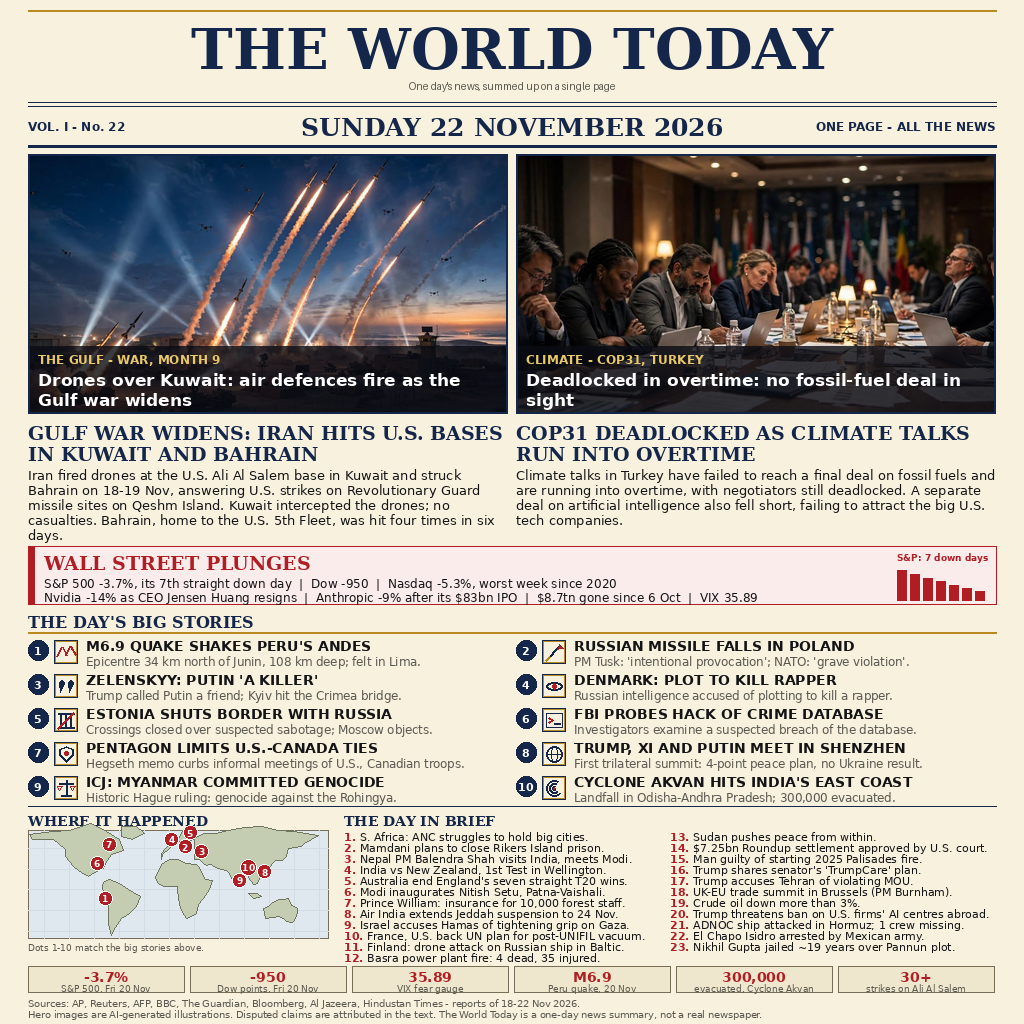
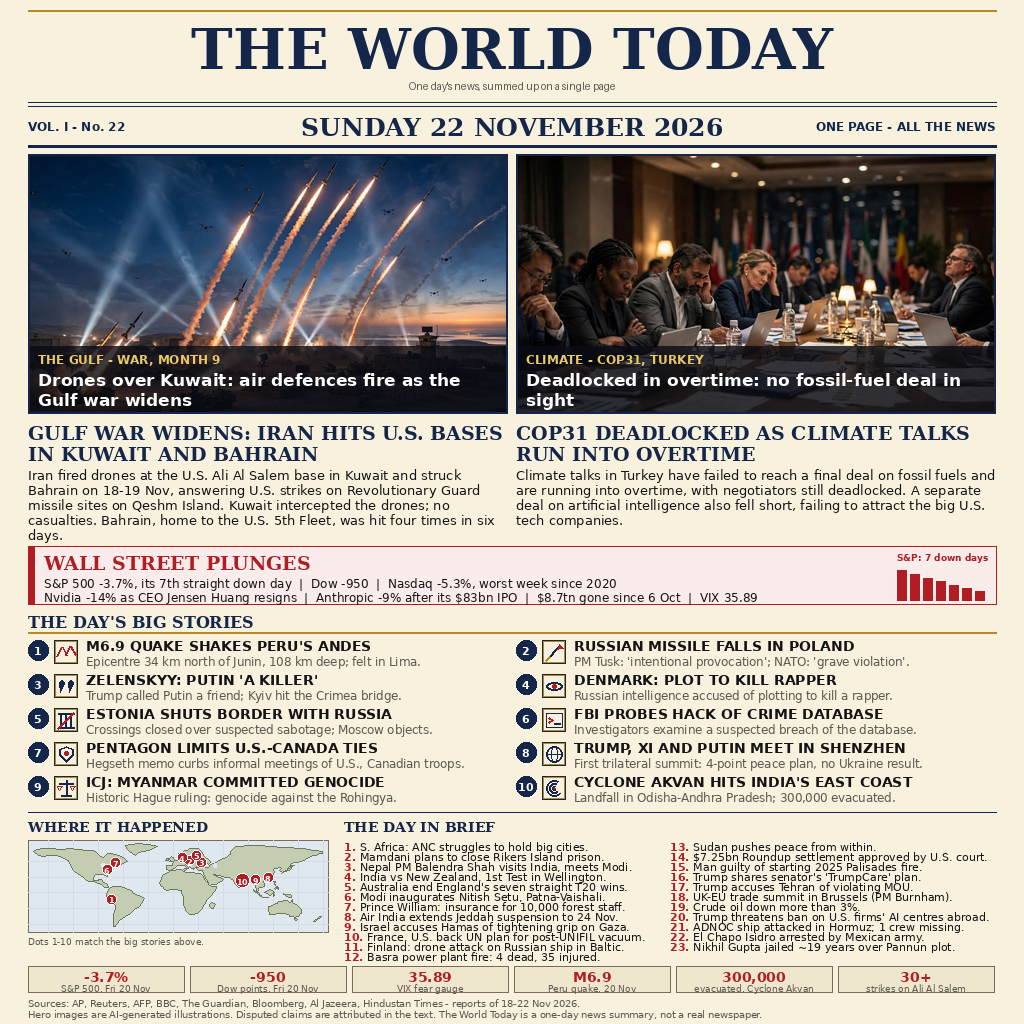
news-image-20261122: redraw the WHERE IT HAPPENED world map
Denser simplified coastlines (North/South America, Africa, Europe
with the Italian boot, Asia with Arabia/India/Malay peninsula,
Australia, UK, Japan, Indonesia) instead of blob continents; inland
seas (Baltic, Caspian, Great Lakes) cut back in. All ten dots now sit
on land with no nudges and none touches the frame; dots are smaller
so the tight European and Washington/Ottawa clusters stay legible.
Clear vertical space added between the featured stories and the map
heading, and between the heading and the map. Nothing else changed;
assets/prebuilt.png regenerated from the new render.

Changed region(s): [[0.0312, 0.7812, 0.625, 0.9375], [0.6562, 0.8125, 0.9688, 0.9375]]

diff --git a/composer.py b/composer.py
@@ -193,62 +193,184 @@ ICONS = [icon_quake, icon_missile, icon_quote, icon_eye, icon_border,
 # Simplified continent outlines as (lon, lat) points, equirectangular.
 
 CONTINENTS = [
-    # North America
-    [(-168, 66), (-140, 70), (-120, 72), (-95, 80), (-80, 73), (-60, 60),
-     (-55, 47), (-70, 42), (-75, 35), (-80, 26), (-90, 21), (-97, 16),
-     (-105, 20), (-115, 28), (-125, 40), (-125, 49), (-140, 60),
-     (-165, 60)],
+    # North America: Alaska, Arctic coast with a Hudson Bay dent,
+    # Labrador, Florida, Gulf coast, Mexico, Central America.
+    [(-168, 66), (-163, 60), (-156, 58), (-149, 60), (-142, 60),
+     (-136, 58), (-131, 55), (-127, 51), (-124, 44), (-121, 36),
+     (-116, 31), (-112, 28), (-109, 24), (-106, 21), (-101, 18),
+     (-95, 18), (-91, 15), (-87, 13), (-83, 9), (-79, 9), (-80, 13),
+     (-84, 16), (-87, 21), (-90, 21), (-91, 19), (-96, 19), (-97, 24),
+     (-94, 29), (-90, 30), (-85, 30), (-82, 28), (-80, 26), (-80, 31),
+     (-76, 35), (-75, 38), (-73, 41), (-70, 42), (-68, 44), (-65, 44),
+     (-60, 46), (-56, 50), (-59, 54), (-62, 57), (-66, 59), (-70, 61),
+     (-76, 62), (-80, 63), (-83, 58), (-85, 56), (-88, 58), (-91, 61),
+     (-94, 65), (-98, 67), (-105, 68), (-115, 69), (-125, 70),
+     (-135, 69), (-148, 70), (-158, 71), (-165, 69)],
     # Greenland
-    [(-58, 64), (-45, 60), (-30, 68), (-40, 76), (-58, 76)],
-    # South America
-    [(-80, 9), (-72, 12), (-60, 8), (-50, 0), (-35, -8), (-40, -20),
-     (-48, -28), (-58, -35), (-65, -45), (-70, -55), (-73, -40),
-     (-73, -20), (-80, -5), (-81, 5)],
-    # Africa
-    [(-17, 15), (-10, 30), (0, 36), (10, 37), (20, 32), (32, 31),
-     (35, 28), (43, 12), (51, 11), (48, 0), (40, -10), (35, -18),
-     (32, -28), (20, -35), (15, -27), (12, -18), (9, -1), (9, 4),
-     (-8, 4), (-13, 8)],
-    # Europe
-    [(-10, 36), (-9, 43), (-2, 48), (0, 50), (5, 53), (8, 57), (10, 59),
-     (18, 56), (21, 55), (24, 58), (28, 60), (30, 62), (25, 65),
-     (20, 70), (15, 70), (10, 62), (5, 60), (5, 58), (-5, 50), (-10, 44)],
-    # Asia
-    [(30, 62), (40, 68), (55, 68), (70, 72), (90, 75), (110, 76),
-     (130, 72), (150, 70), (170, 66), (178, 65), (170, 60), (162, 56),
-     (158, 52), (142, 50), (140, 40), (135, 35), (127, 35), (122, 30),
-     (120, 22), (110, 20), (108, 12), (105, 8), (100, 6), (98, 10),
-     (95, 15), (92, 21), (88, 22), (85, 19), (80, 13), (77, 8),
-     (75, 12), (72, 20), (68, 23), (62, 25), (57, 26), (52, 28),
-     (50, 30), (48, 30), (44, 29), (40, 32), (36, 36), (33, 36), (30, 36)],
-    # Australia
-    [(113, -22), (114, -30), (115, -35), (124, -33), (130, -32),
-     (137, -35), (140, -38), (147, -39), (150, -37), (153, -27),
-     (153, -22), (146, -19), (142, -11), (137, -12), (132, -12),
-     (126, -14), (122, -17), (118, -20)],
-    # South-East Asian islands
-    [(95, -5), (105, -5), (110, -8), (100, -10)],
+    [(-46, 60), (-42, 64), (-36, 66), (-30, 68), (-24, 70), (-20, 73),
+     (-25, 76), (-32, 77), (-42, 78), (-52, 77), (-58, 75), (-57, 71),
+     (-54, 67), (-50, 63)],
+    # South America: Caribbean coast, Brazilian bulge, taper to the south.
+    [(-77, 7), (-74, 10), (-70, 11), (-64, 10), (-59, 8), (-54, 6),
+     (-51, 4), (-50, 0), (-46, -2), (-41, -4), (-36, -7), (-35, -9),
+     (-37, -12), (-39, -16), (-40, -20), (-42, -23), (-46, -25),
+     (-49, -28), (-52, -32), (-55, -35), (-58, -38), (-62, -40),
+     (-65, -43), (-67, -47), (-69, -50), (-70, -53), (-72, -54),
+     (-73, -50), (-73, -45), (-73, -40), (-72, -35), (-71, -30),
+     (-70, -25), (-70, -20), (-73, -16), (-76, -13), (-79, -8),
+     (-81, -5), (-81, -1), (-80, 2), (-78, 5)],
+    # Africa: west bulge, Mediterranean coast, Horn, southern taper.
+    [(-17, 15), (-16, 19), (-15, 23), (-14, 27), (-11, 30), (-7, 33),
+     (-4, 35), (0, 36), (5, 37), (9, 37), (11, 34), (15, 32), (19, 32),
+     (23, 32), (27, 31), (30, 31), (32, 31), (34, 28), (36, 25),
+     (37, 22), (38, 19), (40, 16), (41, 13), (43, 12), (46, 11),
+     (48, 11), (51, 11), (51, 8), (50, 4), (48, 0), (46, -3), (43, -7),
+     (40, -10), (39, -14), (37, -18), (35, -21), (34, -25), (32, -28),
+     (30, -31), (27, -33), (23, -34), (19, -35), (17, -33), (15, -30),
+     (14, -26), (13, -22), (12, -18), (12, -14), (12, -10), (12, -6),
+     (10, -2), (9, 1), (9, 4), (6, 4), (3, 6), (-1, 5), (-5, 5),
+     (-8, 4), (-11, 6), (-13, 8), (-15, 11)],
+    # Madagascar
+    [(44, -16), (46, -15), (49, -16), (50, -18), (49, -21), (47, -24),
+     (45, -25), (43, -22), (43, -19)],
+    # Europe: Iberia, Brittany, Low Countries, Jutland, Norway, North
+    # Cape, down the Russian west to the Caucasus, Black Sea north
+    # coast, Greece, Adriatic, the Italian boot, back along the Med.
+    [(-9, 37), (-9, 41), (-9, 43), (-5, 44), (-2, 44), (-2, 47),
+     (-1, 49), (0, 50), (2, 51), (4, 52), (6, 54), (8, 55), (8, 57),
+     (10, 58), (8, 59), (6, 60), (5, 61), (6, 62), (8, 63), (11, 65),
+     (13, 67), (16, 68), (19, 70), (23, 71), (27, 71), (30, 70),
+     (31, 69), (32, 67), (33, 65), (34, 63), (35, 61), (36, 59),
+     (38, 57), (40, 55), (42, 53), (43, 51), (44, 49), (43, 47),
+     (41, 45), (39, 47), (36, 46), (33, 46), (30, 46), (28, 44),
+     (27, 42), (26, 40), (24, 39), (23, 37), (22, 38), (21, 39),
+     (20, 41), (19, 42), (18, 44), (16, 44), (14, 45), (15, 43),
+     (16, 42), (17, 41), (18, 40), (17, 39), (16, 38), (15, 39),
+     (15, 41), (14, 42), (13, 44), (11, 44), (9, 44), (7, 44), (6, 43),
+     (4, 43), (3, 42), (2, 41), (0, 39), (-1, 38), (-3, 37), (-5, 36),
+     (-7, 36)],
+    # United Kingdom
+    [(-5, 50), (-4, 52), (-5, 54), (-4, 56), (-3, 58), (-1, 57),
+     (0, 54), (1, 52), (0, 50)],
+    # Ireland
+    [(-10, 52), (-9, 54), (-7, 55), (-6, 54), (-6, 52), (-8, 51)],
+    # Sicily
+    [(12, 37), (14, 38), (15, 37), (13, 36)],
+    # Asia: Turkey, Caucasus, Siberia, Chukotka, Pacific coast with
+    # Korea, south China coast, Vietnam, Malay peninsula spike,
+    # Myanmar, the Indian triangle, Arabia, Red Sea, Levant.
+    [(28, 41), (30, 41), (33, 42), (36, 42), (39, 41), (41, 41),
+     (43, 43), (45, 45), (47, 46), (49, 47), (51, 49), (54, 51),
+     (57, 53), (60, 55), (63, 57), (66, 59), (68, 61), (68, 65),
+     (69, 68), (71, 71), (74, 73), (78, 73), (82, 74), (87, 75),
+     (92, 75), (97, 76), (102, 76), (107, 75), (112, 74), (117, 73),
+     (122, 73), (127, 72), (132, 72), (137, 72), (142, 72), (147, 71),
+     (152, 70), (157, 70), (162, 69), (167, 68), (172, 67), (177, 66),
+     (178, 65), (178, 63), (175, 62), (170, 60), (166, 59), (162, 57),
+     (158, 53), (156, 52), (152, 50), (148, 49), (144, 48), (141, 46),
+     (140, 43), (138, 40), (136, 37), (134, 35), (132, 34), (130, 33),
+     (128, 34), (127, 36), (129, 38), (127, 40), (125, 40), (123, 39),
+     (121, 38), (120, 35), (121, 32), (120, 29), (119, 26), (117, 24),
+     (115, 23), (113, 22), (111, 21), (109, 20), (108, 18), (107, 16),
+     (109, 13), (109, 11), (107, 10), (105, 9), (104, 9), (103, 8),
+     (102, 6), (101, 4), (100, 2), (99, 4), (99, 7), (98, 10), (98, 12),
+     (97, 14), (96, 15), (95, 16), (94, 17), (93, 19), (92, 21),
+     (91, 22), (89, 22), (87, 21), (85, 19), (83, 17), (81, 15),
+     (80, 12), (80, 10), (78, 8), (77, 9), (76, 11), (74, 14), (73, 16),
+     (72, 19), (71, 20), (69, 22), (67, 24), (65, 25), (63, 25),
+     (61, 25), (59, 26), (57, 26), (55, 27), (53, 27), (51, 28),
+     (49, 29), (48, 30), (50, 28), (52, 26), (54, 25), (56, 24),
+     (58, 23), (59, 22), (58, 20), (56, 18), (54, 16), (52, 15),
+     (50, 14), (48, 14), (45, 13), (43, 12), (42, 14), (41, 16),
+     (40, 19), (39, 22), (38, 25), (37, 28), (36, 30), (35, 32),
+     (34, 34), (34, 36), (32, 36), (30, 36), (28, 37), (27, 39),
+     (27, 41)],
+    # Australia: west coast, Great Australian Bight, east coast, Cape York.
+    [(113, -22), (114, -28), (115, -32), (115, -35), (118, -35),
+     (121, -34), (124, -33), (127, -32), (129, -32), (132, -32),
+     (134, -33), (136, -35), (137, -35), (139, -37), (140, -38),
+     (144, -38), (146, -39), (148, -38), (150, -37), (151, -35),
+     (153, -32), (153, -29), (153, -26), (152, -24), (150, -22),
+     (148, -20), (146, -19), (144, -17), (142, -14), (142, -11),
+     (141, -13), (139, -15), (137, -13), (136, -12), (134, -12),
+     (132, -12), (130, -13), (128, -14), (126, -14), (124, -16),
+     (122, -17), (120, -19), (117, -20), (115, -21)],
+    # Tasmania
+    [(145, -41), (147, -41), (148, -42), (147, -43), (146, -43),
+     (145, -42)],
+    # New Zealand
+    [(167, -45), (169, -43), (171, -42), (173, -41), (174, -39),
+     (176, -38), (177, -38), (175, -40), (173, -41), (171, -43),
+     (169, -45), (167, -46)],
+    # Japan: Honshu
+    [(129, 31), (131, 33), (133, 34), (135, 34), (137, 35), (139, 35),
+     (140, 37), (141, 39), (141, 41), (140, 40), (138, 38), (136, 37),
+     (134, 35), (132, 34), (130, 32)],
+    # Japan: Hokkaido
+    [(140, 42), (142, 42), (144, 43), (145, 44), (143, 44), (141, 43)],
+    # Sumatra
+    [(95, 5), (97, 4), (99, 2), (101, 0), (103, -2), (105, -4),
+     (106, -6), (104, -5), (102, -3), (100, -1), (98, 1), (96, 4)],
+    # Borneo
+    [(109, 1), (111, 2), (113, 4), (116, 6), (118, 4), (119, 1),
+     (118, -1), (117, -3), (115, -4), (113, -3), (111, -1), (109, 0)],
+    # Java
+    [(105, -6), (107, -7), (109, -7), (111, -7), (113, -7), (114, -8),
+     (112, -8), (110, -8), (108, -7), (106, -7)],
+    # New Guinea
+    [(131, -1), (133, -2), (136, -2), (138, -3), (140, -3), (141, -4),
+     (141, -7), (139, -8), (137, -7), (135, -5), (133, -3), (131, -2)],
+    # Sulawesi
+    [(119, 0), (121, 1), (120, -1), (119, -3), (120, -5), (121, -3)],
+    # Philippines
+    [(120, 18), (122, 18), (122, 16), (121, 14), (122, 12), (123, 11),
+     (122, 9), (121, 7), (122, 6), (123, 8), (124, 10), (125, 9),
+     (126, 7), (125, 5)],
+]
+
+# Inland seas cut back into the land after the continents are drawn.
+INLAND_SEAS = [
+    # Baltic Sea
+    [(12, 55), (14, 57), (17, 59), (20, 61), (22, 63), (24, 65),
+     (23, 63), (21, 61), (19, 59), (16, 57), (13, 55)],
+    # Caspian Sea
+    [(47, 42), (49, 40), (51, 41), (52, 43), (51, 46), (49, 47),
+     (47, 45)],
+    # Great Lakes
+    [(-87, 42), (-85, 42), (-83, 43), (-81, 44), (-83, 46),
+     (-86, 46), (-88, 45)],
 ]
 
 # Story number -> (lon, lat, nudge_x, nudge_y) for the map dots.
+# No nudges. The true places cluster too tightly for legible numbered
+# dots at this size (Washington/Ottawa are 4 px apart, as are the four
+# European stories), so each dot sits at the nearest on-land point in
+# the same region that keeps every number readable: Poland central,
+# eastern Ukraine, Jutland, north-eastern Estonia, Virginia, the
+# Maine / Quebec border, eastern Myanmar, western Odisha.
 DOTS = [
-    (1, -77, -10, 0, 0),     # Peru
-    (2, 19, 52, 0, 0),       # Poland
-    (3, 30, 50, 7, 3),       # Kyiv
-    (4, 12, 55, -8, -5),     # Copenhagen
-    (5, 25, 59, 0, -8),      # Estonia
-    (6, -77, 39, -8, 6),     # Washington
-    (7, -75, 45, 2, -8),     # Ottawa
-    (8, 114, 22, 0, 0),      # Shenzhen
-    (9, 96, 21, -10, 8),     # Myanmar
-    (10, 85, 20, 8, -6),      # Odisha
+    (1, -75, -10, 0, 0),    # Peru, west coast of South America
+    (2, 19, 51, 0, 0),      # Poland
+    (3, 33, 49, 0, 0),      # Ukraine
+    (4, 10, 56, 0, 0),      # Denmark
+    (5, 27, 60, 0, 0),      # Estonia
+    (6, -80, 37, 0, 0),     # US east coast
+    (7, -70, 48, 0, 0),     # Canada / US border
+    (8, 113, 24, 0, 0),     # Shenzhen, China coast
+    (9, 98, 21, 0, 0),      # Myanmar
+    (10, 82, 19, 0, 0),     # Odisha, east coast of India
 ]
 
 
 def draw_map(draw, x0, y0, w, h):
-    """Rough world map with numbered dots 1-10 for the big stories."""
-    lon0, lon1 = -170.0, 190.0
-    lat0, lat1 = 72.0, -58.0
+    """World map with numbered dots 1-10 for the big stories.
+
+    Equirectangular, with a margin around the inhabited latitudes so
+    no dot touches the frame, and denser coastlines so each continent
+    reads at a glance. Inland seas are cut back in after the land.
+    """
+    lon0, lon1 = -175.0, 185.0
+    lat0, lat1 = 84.0, -62.0
     draw.rectangle([x0, y0, x0 + w, y0 + h], fill=(223, 232, 238),
                    outline=RULE, width=1)
     for lon in range(-150, 181, 30):
@@ -265,16 +387,22 @@ def draw_map(draw, x0, y0, w, h):
     for poly in CONTINENTS:
         pts = [px(lon, lat) for lon, lat in poly]
         draw.polygon(pts, fill=(196, 205, 178), outline=(110, 118, 96))
+    for sea in INLAND_SEAS:
+        pts = [px(lon, lat) for lon, lat in sea]
+        draw.polygon(pts, fill=(223, 232, 238))
     for num, lon, lat, nx, ny in DOTS:
         cx, cy = px(lon, lat)
         cx += nx
         cy += ny
-        r = 7 if num < 10 else 8
+        # Small dots: the European stories and Washington/Ottawa sit
+        # only ~8 px apart, so a radius of 5 (7 for two-digit 10) is
+        # what keeps every number readable without overlap.
+        r = 5 if num < 10 else 7
         draw.ellipse([cx - r, cy - r, cx + r, cy + r], fill=RED,
                      outline=(255, 255, 255), width=1)
         label = str(num)
-        tw = draw.textlength(label, font=font(SANS_BOLD, 9))
-        draw.text((cx - tw / 2, cy - 5), label, font=font(SANS_BOLD, 9),
+        tw = draw.textlength(label, font=font(SANS_BOLD, 8))
+        draw.text((cx - tw / 2, cy - 4), label, font=font(SANS_BOLD, 8),
                   fill=(255, 255, 255))
 
 
@@ -464,20 +592,20 @@ def build_page(base_dir):
                   font=font(SANS, 11.5), fill=GREY)
 
     # --- map + briefs -------------------------------------------------------
-    hrule(draw, MX, W - MX, 806, fill=NAVY, width=1)
+    hrule(draw, MX, W - MX, 812, fill=NAVY, width=1)
     secf = font(SERIF_BOLD, 14)
-    draw.text((MX, 812), "WHERE IT HAPPENED", font=secf, fill=NAVY)
-    draw.text((MX + 316, 812), "THE DAY IN BRIEF", font=secf, fill=NAVY)
-    draw_map(draw, MX, 830, 300, 108)
+    draw.text((MX, 818), "WHERE IT HAPPENED", font=secf, fill=NAVY)
+    draw.text((MX + 316, 818), "THE DAY IN BRIEF", font=secf, fill=NAVY)
+    draw_map(draw, MX, 840, 300, 92)
     leg = "Dots 1-10 match the big stories above."
-    draw.text((MX, 942), leg, font=font(SANS, 9), fill=GREY)
+    draw.text((MX, 936), leg, font=font(SANS, 9), fill=GREY)
     bx0 = MX + 316
     col_w = (CW - 316) // 2
     for i, item in enumerate(BRIEFS):
         col = 0 if i < 12 else 1
         row = i if i < 12 else i - 12
         x = bx0 + col * col_w
-        y = 830 + row * 11
+        y = 840 + row * 10
         num = str(i + 1) + "."
         draw.text((x, y), num, font=font(SANS_BOLD, 11), fill=RED)
         nw = draw.textlength(num + " ", font=font(SANS_BOLD, 11))
